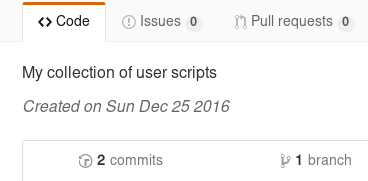
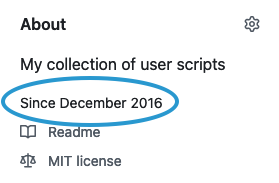
Fix repo date script

diff --git a/GitHub_Repo_Dates/GitHub_Repo_Dates.user.js b/GitHub_Repo_Dates/GitHub_Repo_Dates.user.js
@@ -1,24 +1,22 @@
 // ==UserScript==
-// @name        GitHub Repo Dates
-// @license     MIT
-// @namespace   https://github.com/cosenal/Userscripts
-// @description Show the date on which a GitHub repo was created
-// @include     https://github.com/*
-// @version     0.0.1
-// @run-at      document-end
-// @grant       GM_xmlhttpRequest
+// @name         GitHub Repo Dates
+// @license      MIT
+// @namespace    https://github.com/cosenal/user-scripts
+// @version      0.1.0
+// @description  Display creation date of GitHub repositories
+// @author       cosenal
+// @match        https://github.com/*/*
+// @grant        GM_xmlhttpRequest
+// @connect      api.github.com
 // ==/UserScript==
 
-// ==OpenUserJS==
-// @author cosenal
-// ==/OpenUserJS==
 
 (function() {
-
-    var extraInfo = document.createElement("div");
-    extraInfo.style =
-        'padding-top: 10px;' +
-        'font-style: italic;';
+    // Ensure we are on the main repository page
+    const pathParts = document.location.pathname.split('/');
+    if (pathParts.length > 3 && pathParts[3] !== "") {
+        return;
+    }
 
     function fetchData(repo_full_name) {
         GM_xmlhttpRequest({
@@ -29,20 +27,26 @@
     }
 
     function fillData(response) {
-        parsedRes = JSON.parse(response.responseText);
+        var parsedRes = JSON.parse(response.responseText);
         var date = new Date(parsedRes.created_at);
-        var content = "Created on " + date.toDateString()
+        var options = { year: 'numeric', month: 'long' };
+        var formattedDate = date.toLocaleDateString('en', options);
+
+        var content = "Since " + formattedDate;
         var extraInfoContent = document.createTextNode(content);
+
+        var extraInfo = document.createElement("div");
         extraInfo.appendChild(extraInfoContent);
+        var headers = document.querySelectorAll('.BorderGrid-cell h3');
+        headers.forEach(function(header) {
+            if (header.textContent.trim() === "Resources") {
+                header.parentNode.insertBefore(extraInfo, header.nextSibling);
+            }
+        });
     }
 
-    var repoMetaDiv = document.getElementsByClassName('repository-meta-content'); 
-    if (repoMetaDiv.length > 0) {
-        var parser = document.createElement('a');
-        parser.href = document.querySelector("link[rel=canonical]").getAttribute("href");
-        var str = parser.pathname
-        fetchData(str.slice(1, str.length));
-        repoMetaDiv[0].appendChild(extraInfo);
-    }
+    var canonicalLink = document.querySelector('link[rel=canonical]').getAttribute("href");
+    var repoPath = new URL(canonicalLink).pathname.slice(1);
 
+    fetchData(repoPath);
 })();
